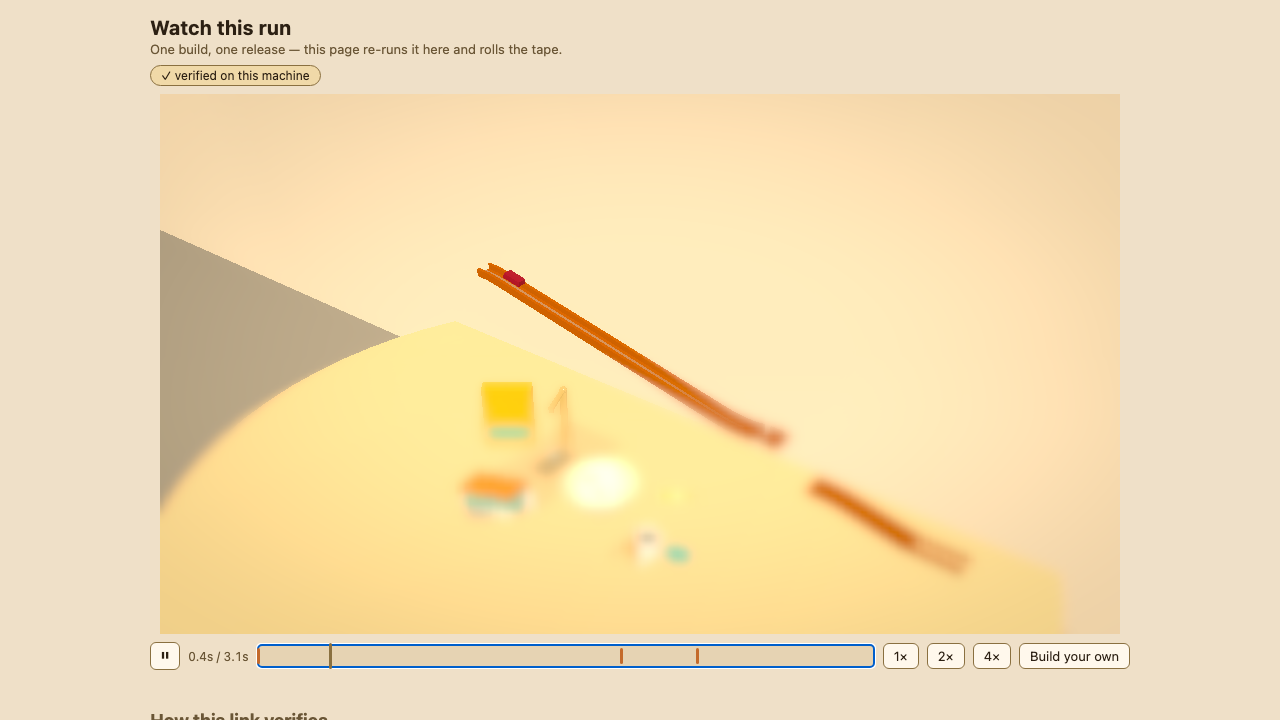
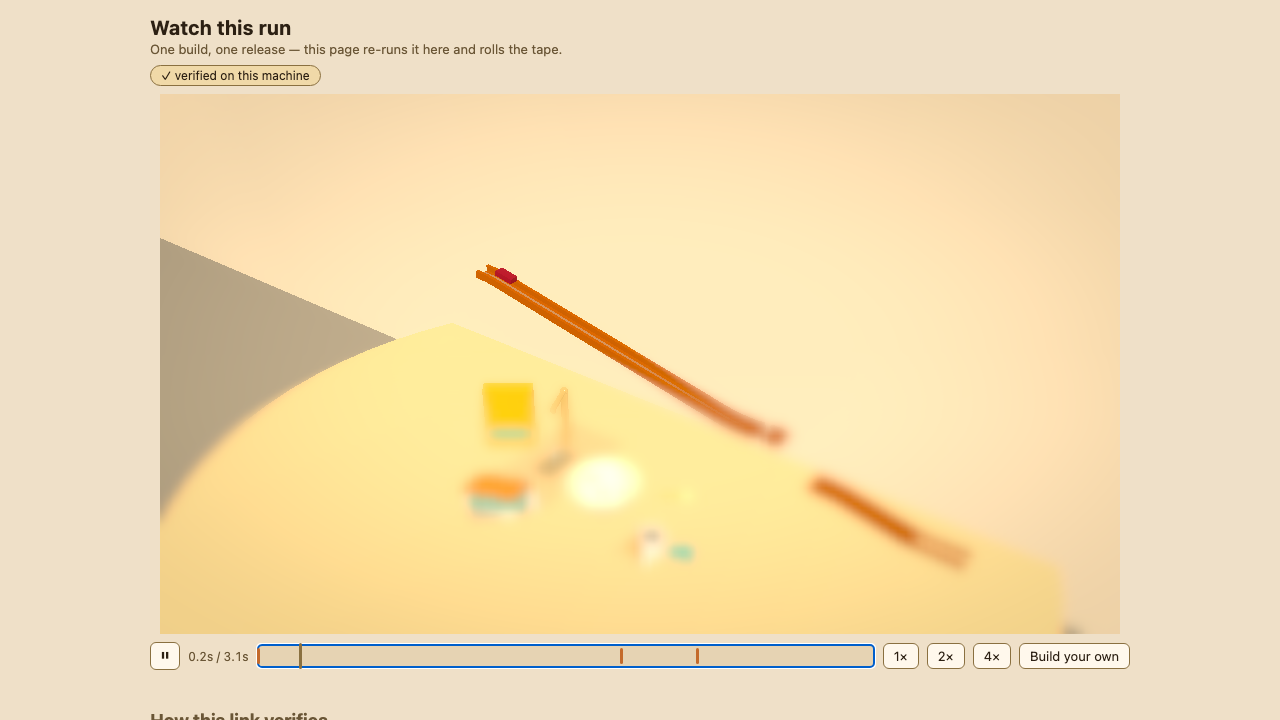
stage 5: feel engineer - share-replay CI-red salvage: playhead pacing-proof via the page's pace ledger (advance === min(frame gap, 0.25s) x rate asserted PER RENDERED FRAME; wall-clock waitForTimeout sampling removed — SwiftShader frame pacing made the 15.8s feeltrack seek/playhead reads off-step on

diff --git a/tests/e2e/share-replay.spec.ts b/tests/e2e/share-replay.spec.ts
@@ -10,7 +10,10 @@
  *      entry for `floor(t/dt)` — which just equals the node state at that
  *      step. No interpolation between steps exists to cheat with.
  *   2. The replay PLAYS (autoplays; play/pause and 1×/2×/4× are real
- *      controls whose effect is measured on the playhead) and cuts ≥ 3
+ *      controls whose effect is measured on the playhead — since the stage-5
+ *      CI-red salvage PER RENDERED FRAME via the page's pace ledger, never
+ *      by sampling after a wall-clock sleep, which SwiftShader frame pacing
+ *      made off-step on the 15.8 s feeltrack link) and cuts ≥ 3
  *      shots; the FINISH shot frames the cup (projected |ndc| ≤ 0.8 at the
  *      end of the timeline, on kitchen01).
  *   3. The page sells the moment above the fold — "Watch this run", the
@@ -63,6 +66,37 @@ async function replayState(page: Page): Promise<StateSeam> {
   return page.evaluate(() => (window as unknown as { __gwReplayState: () => StateSeam }).__gwReplayState())
 }
 
+/** PACING-PROOF rate proof (stage 5 salvage — the CI red): the playhead is
+ *  NEVER sampled after a wall-clock sleep — CI frame pacing (SwiftShader)
+ *  can make a 300 ms window hold zero rendered frames (the playhead reads
+ *  frozen) or one clamped giant (it reads off-step). The page's own pace
+ *  ledger (`__gwReplayPace`, cleared at every seek/play/speed discontinuity)
+ *  is polled instead, and the rate law is asserted PER RENDERED FRAME:
+ *  every interval of a contiguous play session must advance the playhead
+ *  by min(frame gap, 0.25 s) × rate. A multiplier cannot be faked by
+ *  waiting, and no frame rate is fast enough or slow enough to break it. */
+async function paceHeld(page: Page, rate: number): Promise<boolean> {
+  return page.evaluate(async (r: number) => {
+    const seam = () =>
+      (window as unknown as { __gwReplayPace?: () => [number, number, number][] }).__gwReplayPace?.() ?? []
+    const deadline = performance.now() + 30_000
+    for (;;) {
+      const p = seam()
+      let checked = 0
+      for (let i = 1; i < p.length; i++) {
+        if (p[i]![2] !== r || p[i - 1]![2] !== r) continue
+        checked++
+        const want = Math.min((p[i]![0]! - p[i - 1]![0]!) / 1000, 0.25) * r
+        const got = p[i]![1]! - p[i - 1]![1]!
+        if (Math.abs(got - want) > Math.max(1e-9, want * 0.01)) return false
+      }
+      if (checked >= 5) return true
+      if (performance.now() > deadline) return false
+      await new Promise((res) => requestAnimationFrame(res))
+    }
+  }, rate)
+}
+
 async function ensurePaused(page: Page): Promise<void> {
   // A click on Play at the END of the run restarts from 0 (real UX). If the
   // run auto-paused in the window between the aria read and the click, the
@@ -99,19 +133,23 @@ test.describe('stage 5 share link opens into the cinematic replay', () => {
       expect(tr.poses[i]).toEqual([...s.pos, ...s.quat])
     }
 
-    // ---- playback controls act on the playhead ----
+    // ---- playback controls act on the playhead — PACING-PROOF: paused
+    // means HELD across rendered frames (double-rAF, not a slept 350 ms),
+    // advance is POLLED on the state seam, and the rate is proven by the
+    // per-frame pace law above, never by a wall-clock snapshot ----
     const timeline = page.locator('#gw-replay-timeline')
     await timeline.focus()
     await page.keyboard.press('Home')
     await ensurePaused(page)
     const t1 = (await replayState(page)).t
-    await page.waitForTimeout(350)
-    expect((await replayState(page)).t).toBe(t1) // PAUSED holds the state
+    await page.evaluate(() => new Promise<void>((r) => requestAnimationFrame(() => requestAnimationFrame(() => requestAnimationFrame(() => r())))))
+    expect((await replayState(page)).t, 'PAUSED must hold the state across rendered frames').toBe(t1)
 
     await page.click('#gw-replay-play') // play at 1x
-    await page.waitForTimeout(300)
-    const t2 = (await replayState(page)).t
-    expect(t2).toBeGreaterThan(t1)
+    await expect
+      .poll(async () => (await replayState(page)).t, { timeout: 30_000, message: 'Play never advanced the playhead' })
+      .toBeGreaterThan(t1)
+    expect(await paceHeld(page, 1), 'the 1x frames did not honour the pace law').toBe(true)
     await ensurePaused(page)
 
     await page.keyboard.press('Home')
@@ -119,9 +157,10 @@ test.describe('stage 5 share link opens into the cinematic replay', () => {
     const t3 = (await replayState(page)).t
     await page.click('.gw-replay-speed[data-speed="4"]')
     await page.click('#gw-replay-play')
-    await page.waitForTimeout(300)
-    const t4 = (await replayState(page)).t
-    expect(t4 - t3).toBeGreaterThanOrEqual(0.6) // 4x over 300 ms is 1.2 s of sim
+    await expect
+      .poll(async () => (await replayState(page)).t - t3, { timeout: 30_000, message: '4x never covered the sim window' })
+      .toBeGreaterThanOrEqual(0.6)
+    expect(await paceHeld(page, 4), 'the 4x frames did not honour the pace law').toBe(true)
     await ensurePaused(page)
 
     // ---- drag/click a tick: the seen state IS the node state at that step ----

diff --git a/src/boot.ts b/src/boot.ts
@@ -667,6 +667,19 @@ async function startReplayPlayer(
   /** Below this much remaining watchable motion a Play click rewinds to 0
    *  (see the play-button comment — the dead-first-click fix). */
   const PLAY_RESUME_MIN = Math.min(0.5, duration * 0.5);
+  /** The PACE LEDGER (e2e debug surface): [wallMs, playheadS, rate] for every
+   *  frame that ADVANCED the playhead. The share-replay rate law is asserted
+   *  from it PER RENDERED FRAME — advance === min(frame gap, 0.25 s) × rate —
+   *  because CI truth (SwiftShader) can make one frame outlast any fixed
+   *  wall-clock sampling wait: a 300 ms `waitForTimeout` on the 15.8 s
+   *  feeltrack link could hold zero frames (the playhead "never moved") or
+   *  one clamped giant. Any event that breaks frame-gap continuity (Play/
+   *  pause, seek, resume-after-drag, speed change) or clamps at the end
+   *  clears the ledger, so no asserted interval ever spans a discontinuity. */
+  const pace: [number, number, number][] = [];
+  const paceBreak = (): void => {
+    pace.length = 0;
+  };
 
   const renderAt = (t: number): void => {
     const k = stepAt(t);
@@ -715,6 +728,7 @@ async function startReplayPlayer(
     // settle the viewer has already seen.
     if (!playing && duration - time < PLAY_RESUME_MIN) time = 0;
     playing = !playing;
+    paceBreak();
     syncPlay();
   });
   const timeEl = document.createElement('span');
@@ -746,6 +760,7 @@ async function startReplayPlayer(
   };
   const seek = (t: number): void => {
     time = THREE.MathUtils.clamp(t, 0, duration);
+    paceBreak();
     syncBar();
     renderAt(time);
   };
@@ -773,6 +788,7 @@ async function startReplayPlayer(
     if (!dragging) return;
     dragging = false;
     playing = resumeAfterDrag && time < duration;
+    paceBreak();
     syncPlay();
     try {
       timeline.releasePointerCapture(ev.pointerId);
@@ -800,6 +816,7 @@ async function startReplayPlayer(
     b.textContent = `${s}×`;
     b.addEventListener('click', () => {
       rate = s;
+      paceBreak(); // the ledger's next interval carries the NEW multiplier
       for (const o of speedBtns) o.setAttribute('aria-pressed', String(o === b));
     });
     speedBtns.push(b);
@@ -847,6 +864,8 @@ async function startReplayPlayer(
       quat: [trace.quat[k * 4]!, trace.quat[k * 4 + 1]!, trace.quat[k * 4 + 2]!, trace.quat[k * 4 + 3]!],
     };
   };
+  // the pacing ledger of the CURRENT contiguous play session (see `pace`)
+  w.__gwReplayPace = (): [number, number, number][] => pace.map((p) => [p[0]!, p[1]!, p[2]!]);
   const cup = cupView(payload.build);
   w.__gwReplayCarNdc = (): number[] | null => {
     const k = stepAt(time);
@@ -871,7 +890,11 @@ async function startReplayPlayer(
       if (time >= duration) {
         time = duration;
         playing = false;
+        paceBreak(); // a clamped final frame does not honour the law
         syncPlay();
+      } else {
+        pace.push([now, time, rate]);
+        if (pace.length > 240) pace.shift();
       }
       syncBar();
       renderAt(time);

diff --git a/docs/vault/Modules/replay.md b/docs/vault/Modules/replay.md
@@ -13,7 +13,7 @@ tags: [module, replay]
 
 `src/replay/cinematic.ts` (stage 5) is the record the replay PAGE renders: `stepAndRecord(world, build, {maxSteps?, solids?})` launches a (usually visual) World and steps it to the terminal status, storing every step's car state — the very same list `replayRun({record:true})` yields, because both read `World.state()` after the same step order (visuals never reach the solver) — plus the §7.3 `RunCamera` follow pose advanced at `FIXED_DT`. `deriveEvents(samples, status)` (pure, used from both sides) prints the beats — Launch, Top speed (skipped when it is the first/last sample), Big air (the longest airborne segment ≥ 0.15 s, takeoff not landing), and the terminal beat; `planShots` cuts ≥ 3 contiguous shots tiling `[0, time + 0.9 s]` — a WIDE establishing (track bbox fitted to the 28° replay fov, look-at biased to the start, slow lateral drift), the tracked FOLLOW shot (the recorded per-step rail poses), and a FINISH lock-off at `cupView`'s capture centre on the approach tangent — with the cuts ON the beats and `REPLAY_BLEND` 0.4 s of eased cross-shots — and (playtest BB, "if the cuts actually ENDED on the cup-dunk I'd forward it") `planShots` holds the terminal cut early by `REPLAY_FINISH_LEAD` (0.4 s) whenever the shot ordering allows, so the cup-dunk happens INSIDE the held finish shot, never inside a blend into it. `ReplayDirector.poseAt(t)` is a pure function of sim time; inside the follow shot it IS the recorded pose of step `floor(t/dt)`.
 
-The browser side of a replay is `src/boot.ts`'s shared-run page — since stage 5 it OPENS INTO THE REPLAY. Above the fold: "Watch this run", the canvas, and the replay bar (`#gw-replay-play`, `#gw-replay-time`, the `#gw-replay-timeline` scrub slider with event ticks, 1×/2×/4× `.gw-replay-speed`, and the `#gw-replay-build` "Build your own" exit to `?level=<id>`); below the fold the honest half — `parseShareUrl` → `getLevel` → `replayRun` → compare with the embedded hash → `verified`/`mismatch` in `#gw-replay-status` (the strings the specs read, unchanged), echoing the recomputed hash beside it, in `#gw-replay-verify` — and the stage-3 share-card wiring (`#gw-share-card`) rides along there. The player (`startReplayPlayer`) mounts the level's set + build in a visual World, records the whole run BEFORE the first frame (`stepAndRecord` — the fast-forward: playback never steps physics again), and renders the shot sequence through the house post stack (quarter-res tilt-shift, focus band on the car at the shown step). The seek law: the frame at t is the recorded SIM state at step `floor(t/dt)` — never a blend of two states; scrubbing cannot invent a state the sim did not produce. Autoplay starts on load (reduced-motion opens paused, blends collapse to cuts). PLAY always STARTS MOTION (playtest BB: "first Play click did nothing — second click worked"): the film LOOKS over long before it IS over — the finish tail (`REPLAY_TAIL`) and the last steps of the end crawl are watchable window with no watchable motion — so below `PLAY_RESUME_MIN` of remaining time a Play click REWINDS and plays instead of advancing the invisible sliver and re-pausing. CUTS CARRY THE SUBJECT (BB: "one ~0.5 s window shows an empty ground frame" — the blank lived inside the blend): through a cross-shot the blended pose gets a look-at nudge toward the car's traced position peaking at the midpoint as 4w(1−w), vanishing at both ends, so each shot's composed pose is untouched at its boundaries and the subject never leaves frame mid-cut.
+The browser side of a replay is `src/boot.ts`'s shared-run page — since stage 5 it OPENS INTO THE REPLAY. Above the fold: "Watch this run", the canvas, and the replay bar (`#gw-replay-play`, `#gw-replay-time`, the `#gw-replay-timeline` scrub slider with event ticks, 1×/2×/4× `.gw-replay-speed`, and the `#gw-replay-build` "Build your own" exit to `?level=<id>`); below the fold the honest half — `parseShareUrl` → `getLevel` → `replayRun` → compare with the embedded hash → `verified`/`mismatch` in `#gw-replay-status` (the strings the specs read, unchanged), echoing the recomputed hash beside it, in `#gw-replay-verify` — and the stage-3 share-card wiring (`#gw-share-card`) rides along there. The player (`startReplayPlayer`) mounts the level's set + build in a visual World, records the whole run BEFORE the first frame (`stepAndRecord` — the fast-forward: playback never steps physics again), and renders the shot sequence through the house post stack (quarter-res tilt-shift, focus band on the car at the shown step). The seek law: the frame at t is the recorded SIM state at step `floor(t/dt)` — never a blend of two states; scrubbing cannot invent a state the sim did not produce. Autoplay starts on load (reduced-motion opens paused, blends collapse to cuts). PLAY always STARTS MOTION (playtest BB: "first Play click did nothing — second click worked"): the film LOOKS over long before it IS over — the finish tail (`REPLAY_TAIL`) and the last steps of the end crawl are watchable window with no watchable motion — so below `PLAY_RESUME_MIN` of remaining time a Play click REWINDS and plays instead of advancing the invisible sliver and re-pausing. CUTS CARRY THE SUBJECT (BB: "one ~0.5 s window shows an empty ground frame" — the blank lived inside the blend): through a cross-shot the blended pose gets a look-at nudge toward the car's traced position peaking at the midpoint as 4w(1−w), vanishing at both ends, so each shot's composed pose is untouched at its boundaries and the subject never leaves frame mid-cut. The player keeps a PACE LEDGER for the e2e (`__gwReplayPace`): [wallMs, playheadS, rate] per advanced frame, cleared at every seek/play/speed discontinuity and at the clamped final frame — the pacing-proof rate law `tests/e2e/share-replay.spec.ts` asserts (advance === min(frame gap, 0.25 s) × rate, PER RENDERED FRAME), because CI truth (SwiftShader) can make a single frame outlast any wall-clock sampling wait and the old `waitForTimeout(300)` playhead snapshots went red off-step while passing 6/6 locally.
 
 What the hash COVERS, stated precisely (playtest F's "different builds, same hash" finding): `hashBodies` folds the quantised transforms of the RUN'S CAR BODIES (chassis + wheels, `world.hashedBodies`) every `HASH_INTERVAL` steps into the seed-folded accumulator — static track bodies are never hashed directly. Two builds are therefore guaranteed equal-hash exactly when the car's sampled trajectory is equal; a piece that sits OFF the car's road (a static the run never touches) cannot perturb the hash, and the shell's panel may say so truthfully ("same run — your extra piece never touched the road", `#gw-hash-note`).
 
@@ -27,7 +27,7 @@ Playtest AA saw a hand-forged `#s=` link play with an honest verdict while the s
 
 ## Guarded by
 
-`tests/unit/replay.test.ts` (the REAL feel track: same build twice → same hash; JSON round-trip → same hash; piece removed → different hash; ONE piece parameter changed → different hash — determinism is asserted to be sensitive, not just stable), `tests/unit/cinematic.test.ts` (the recorded trace equals the `replayRun({record})` trace exactly, step for step, zero difference; re-records are bit-identical; the event list matches the Node stream through the same pure derivation; the plan tiles ≥ 3 shots; the director pose is a pure function of sim time) and `tests/e2e/replay.spec.ts` (verified/mismatch in the real page on a feel-track `#s=` fragment), plus `tests/e2e/share-replay.spec.ts` (the seek proof: the page trace matches the Node `replayRun({record})` transforms EXACTLY and after a real tick-click the rendered state IS the node state at `floor(t/dt)`; play/pause/4× measured on the playhead; kitchen01: the finish shot frames the cup (|ndc| ≤ 0.8 at the timeline end) and the verification block sits below the player; and the game page grows no replay chrome — the build-view gesture path is untouched), `tests/e2e/stage5-bb-feel.spec.ts` items 1–2 (the BB replay page: ONE Play click starts motion after the opening autoplay and from a pause inside the finish tail — where the old `time >= duration` test burned the sliver — and a per-100 ms pixel census of the last second of the kitchen01 par link proves no empty-stage frame carries zero car pixels (`__gwReplayCarNdc` + the red band) while `__gwReplayGoalNdc` keeps the cup on screen at the terminal beats and the end of the tail) — plus `tests/e2e/replay-red.spec.ts` (the solid-red censor: the playtest reproduction — an empty `fell` build, 1.3 s tape — is screenshot mid-shot through the real scrubber and censused: <40 % of pixels may read as car-chassis red, and the wide/follow/finish frames of the kitchen01 par link must pixelmatch-differ pairwise above a tenth of the frame, so neither a red stage nor a frozen one passes).
+`tests/unit/replay.test.ts` (the REAL feel track: same build twice → same hash; JSON round-trip → same hash; piece removed → different hash; ONE piece parameter changed → different hash — determinism is asserted to be sensitive, not just stable), `tests/unit/cinematic.test.ts` (the recorded trace equals the `replayRun({record})` trace exactly, step for step, zero difference; re-records are bit-identical; the event list matches the Node stream through the same pure derivation; the plan tiles ≥ 3 shots; the director pose is a pure function of sim time) and `tests/e2e/replay.spec.ts` (verified/mismatch in the real page on a feel-track `#s=` fragment), plus `tests/e2e/share-replay.spec.ts` (the seek proof: the page trace matches the Node `replayRun({record})` transforms EXACTLY and after a real tick-click the rendered state IS the node state at `floor(t/dt)`; play/pause/4× measured on the playhead — per rendered frame through the pace ledger since the stage-5 CI-red salvage, never by wall-clock sampling); kitchen01: the finish shot frames the cup (|ndc| ≤ 0.8 at the timeline end) and the verification block sits below the player; and the game page grows no replay chrome — the build-view gesture path is untouched), `tests/e2e/stage5-bb-feel.spec.ts` items 1–2 (the BB replay page: ONE Play click starts motion after the opening autoplay and from a pause inside the finish tail — where the old `time >= duration` test burned the sliver — and a per-100 ms pixel census of the last second of the kitchen01 par link proves no empty-stage frame carries zero car pixels (`__gwReplayCarNdc` + the red band) while `__gwReplayGoalNdc` keeps the cup on screen at the terminal beats and the end of the tail) — plus `tests/e2e/replay-red.spec.ts` (the solid-red censor: the playtest reproduction — an empty `fell` build, 1.3 s tape — is screenshot mid-shot through the real scrubber and censused: <40 % of pixels may read as car-chassis red, and the wide/follow/finish frames of the kitchen01 par link must pixelmatch-differ pairwise above a tenth of the frame, so neither a red stage nor a frozen one passes).
 
 ## Depends on / used by
 
